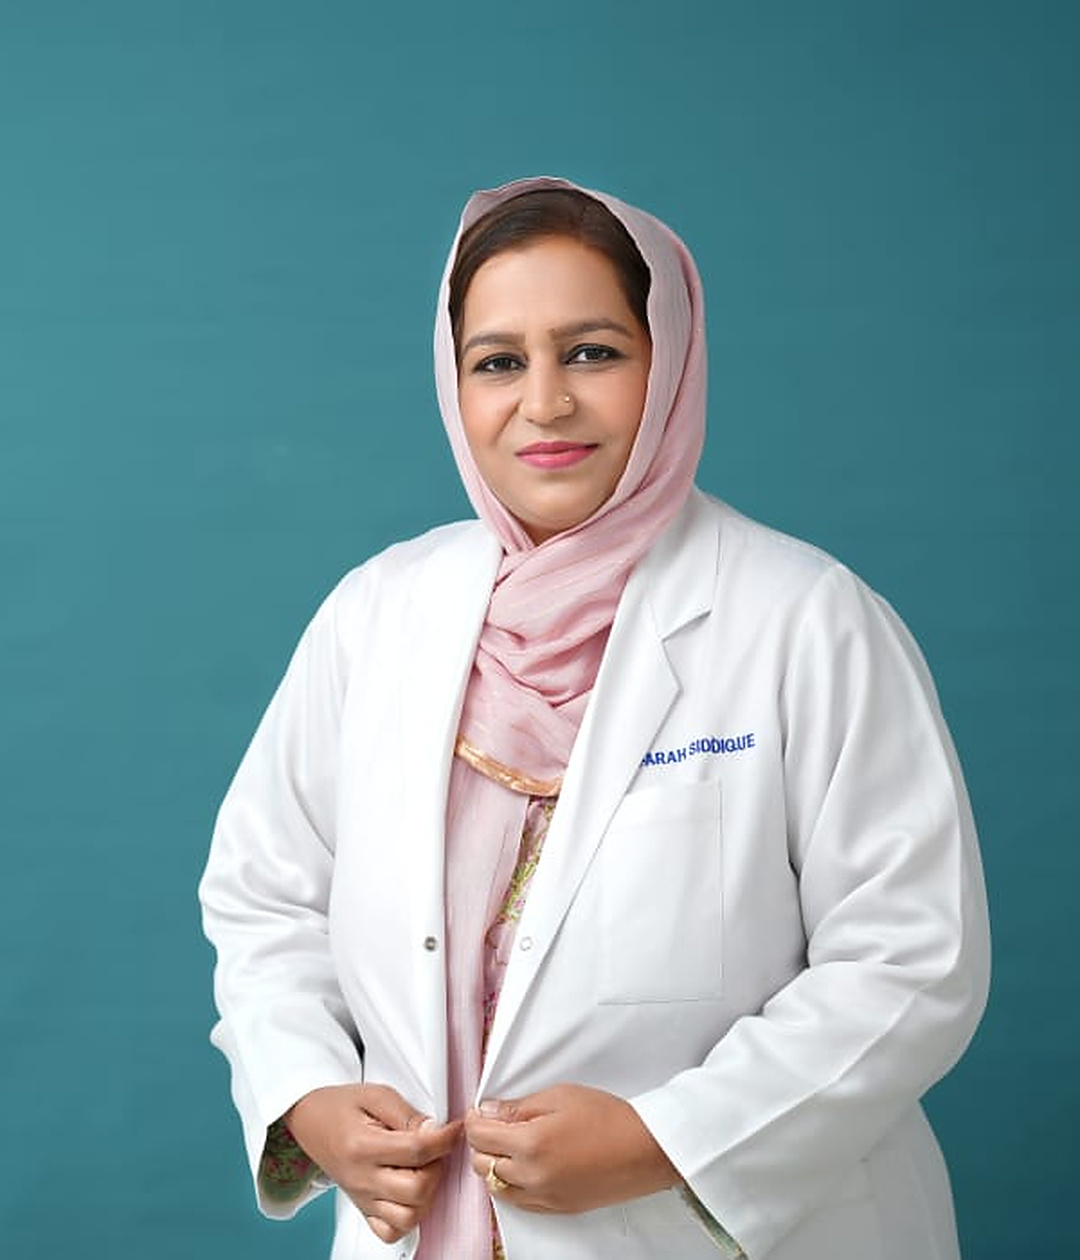
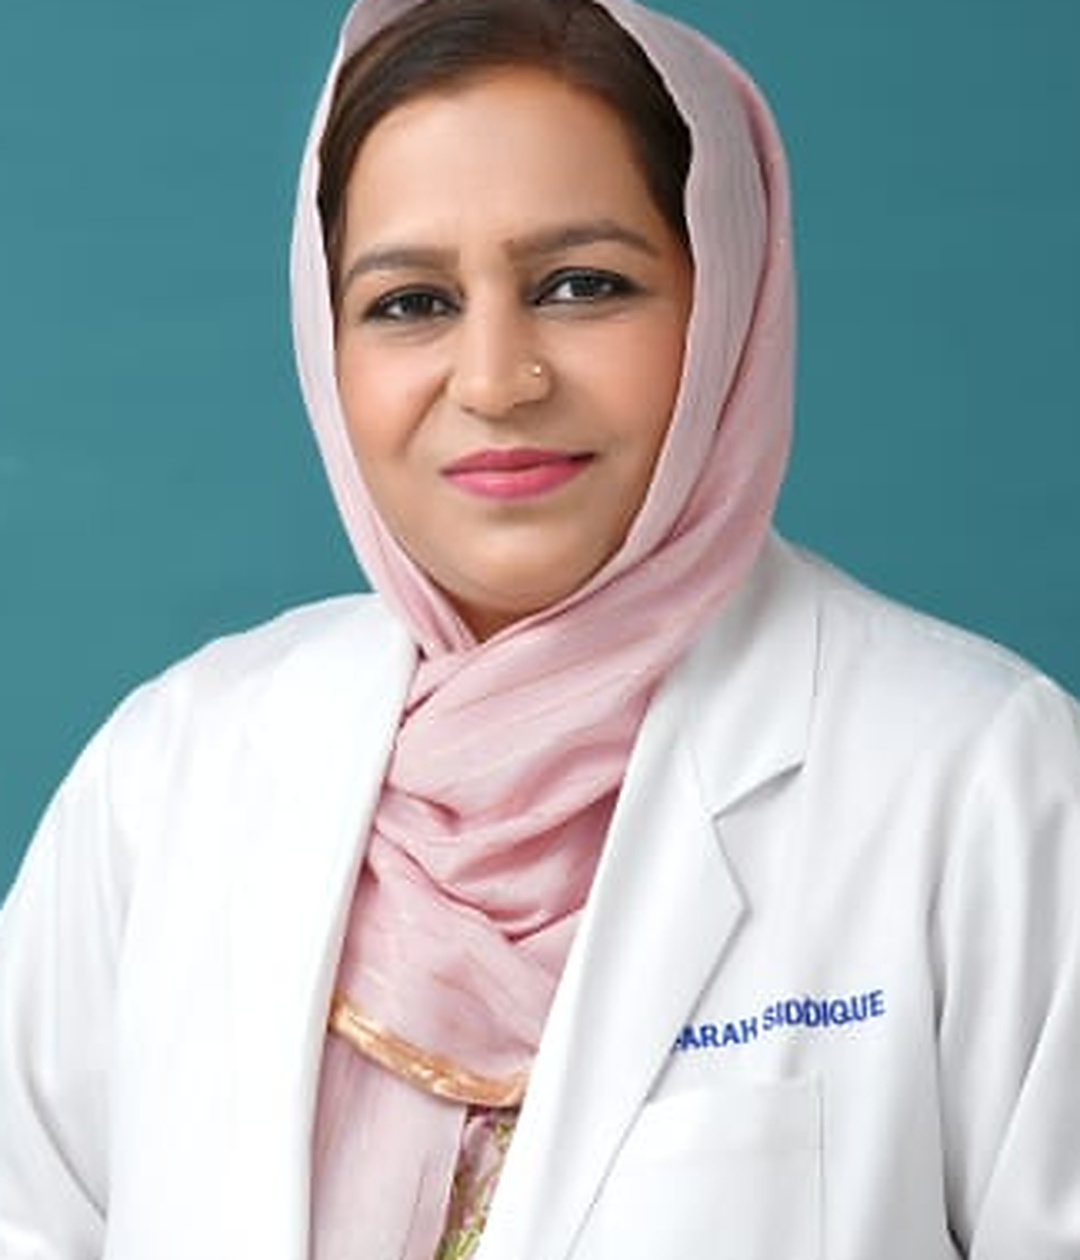
fix: match Haroon and Aroosha portraits to Aaliya framing
Tight head-and-shoulders crops so shoulders fill the card and side background is removed.

diff --git a/styles.css b/styles.css
@@ -1201,7 +1201,7 @@ body.is-ready .hero-controls {
   width: 100%;
   height: 100%;
   object-fit: cover;
-  object-position: center 18%;
+  object-position: center 22%;
   transition: transform 0.75s var(--ease-out);
 }
 
